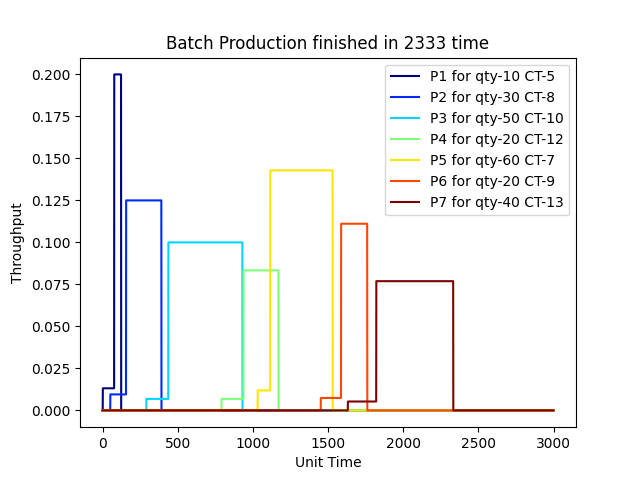
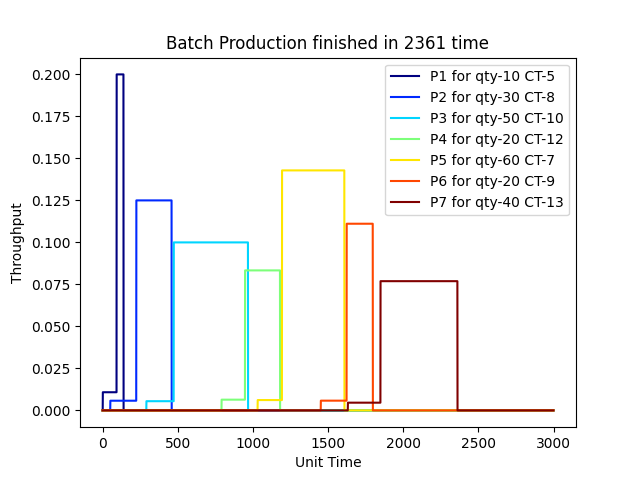
production stat

diff --git a/main.py b/main.py
@@ -120,8 +120,8 @@ for pseq in Batch_sequence:
 tree_pos = []
 for i, chr_Tree in enumerate(random_pop):
     # pos= G_pos
-    #pos = draw_hierarchy_pos(chr_Tree, root=1, width=grid_size, height=grid_size)
-    pos = EoN.hierarchy_pos(chr_Tree, root=1, width=grid_size)
+    pos = draw_hierarchy_pos(chr_Tree, root=1, width=grid_size, height=grid_size)
+    #pos = EoN.hierarchy_pos(chr_Tree, root=1, width=grid_size)
     #pos = hierarchy_pos3(chr_Tree,root=1,width=grid_size,xcenter=14)
     #pos = graphviz_layout(G, prog='dot')
     tree_pos.append(pos)
@@ -323,9 +323,9 @@ def genetic_stage2(parent1, parent2, gen):
     # print("resumed")
     ### Draw and calculate fitness function ####
     for i, off_tree in enumerate(logical_off):
-        #pos_off = draw_hierarchy_pos(off_tree, root=1, width=grid_size, height=grid_size)
+        pos_off = draw_hierarchy_pos(off_tree, root=1, width=grid_size, height=grid_size)
 
-        pos_off = EoN.hierarchy_pos(chr_Tree, root=1, width=grid_size)
+        #pos_off = EoN.hierarchy_pos(off_tree, root=1, width=grid_size)
         off_pos.append(pos_off)
         # pos_off = EoN.hierarchy_pos(off_tree, root=1, width=40)
         plt.figure()
